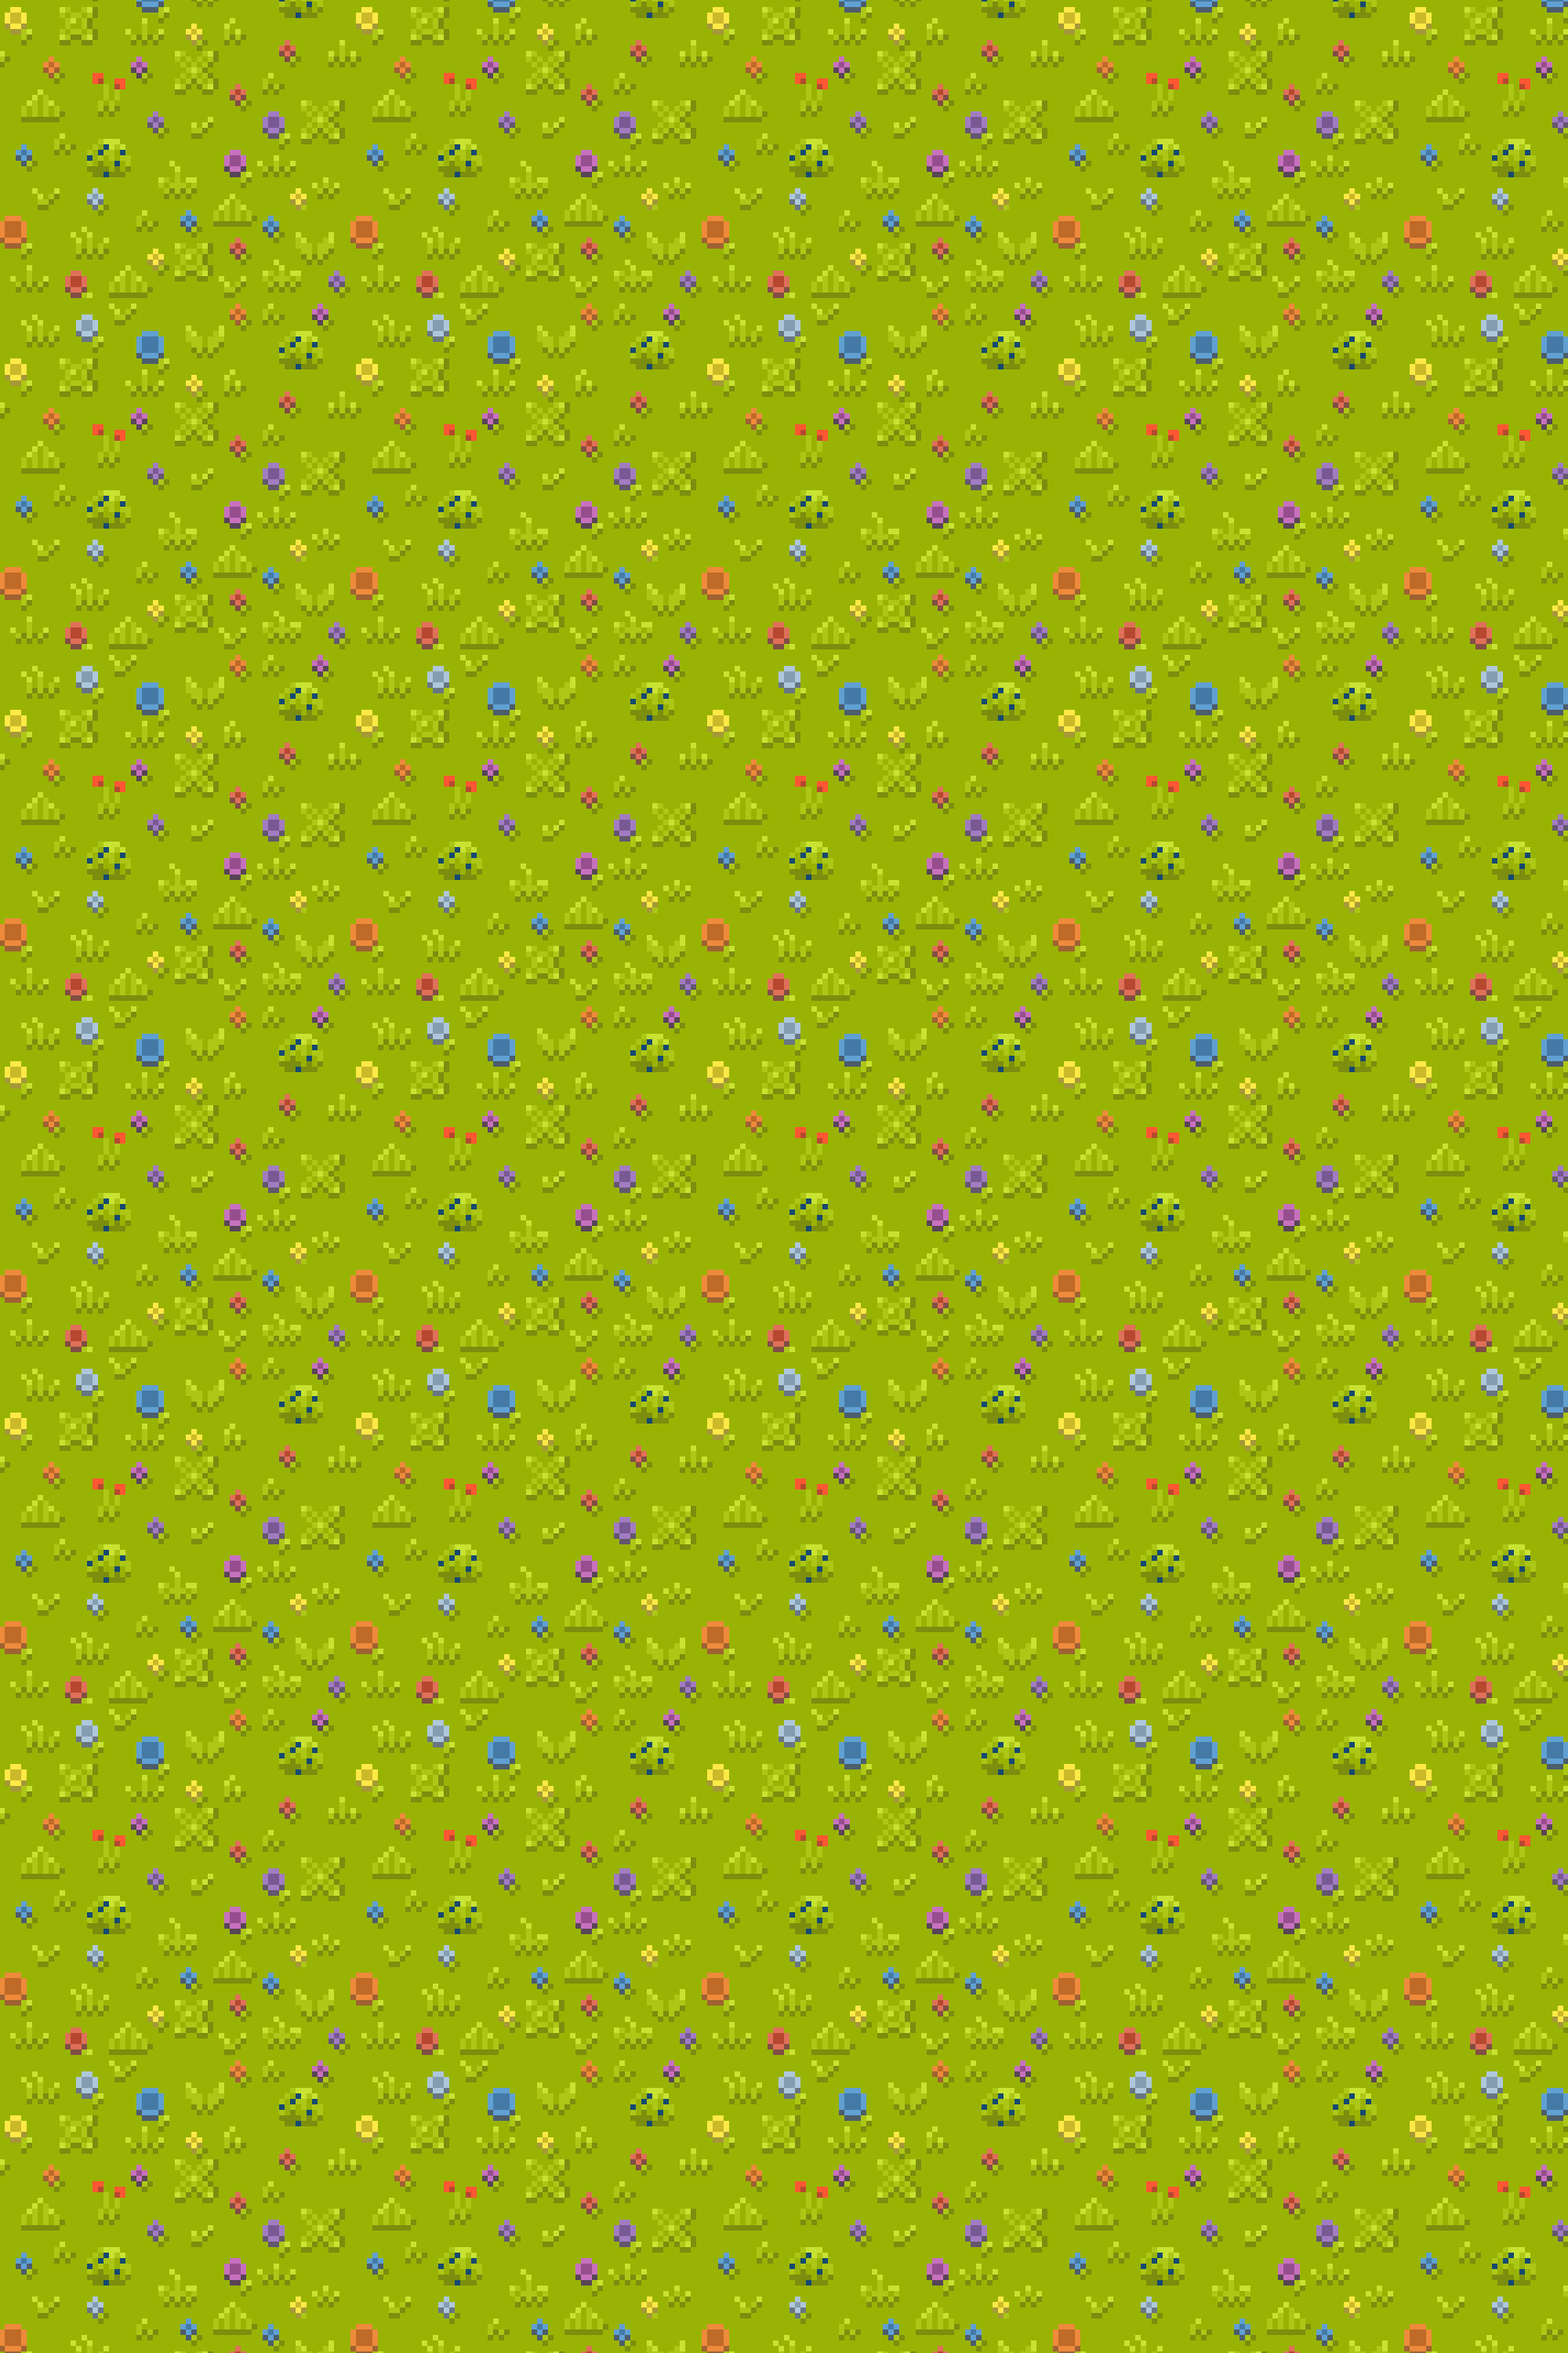
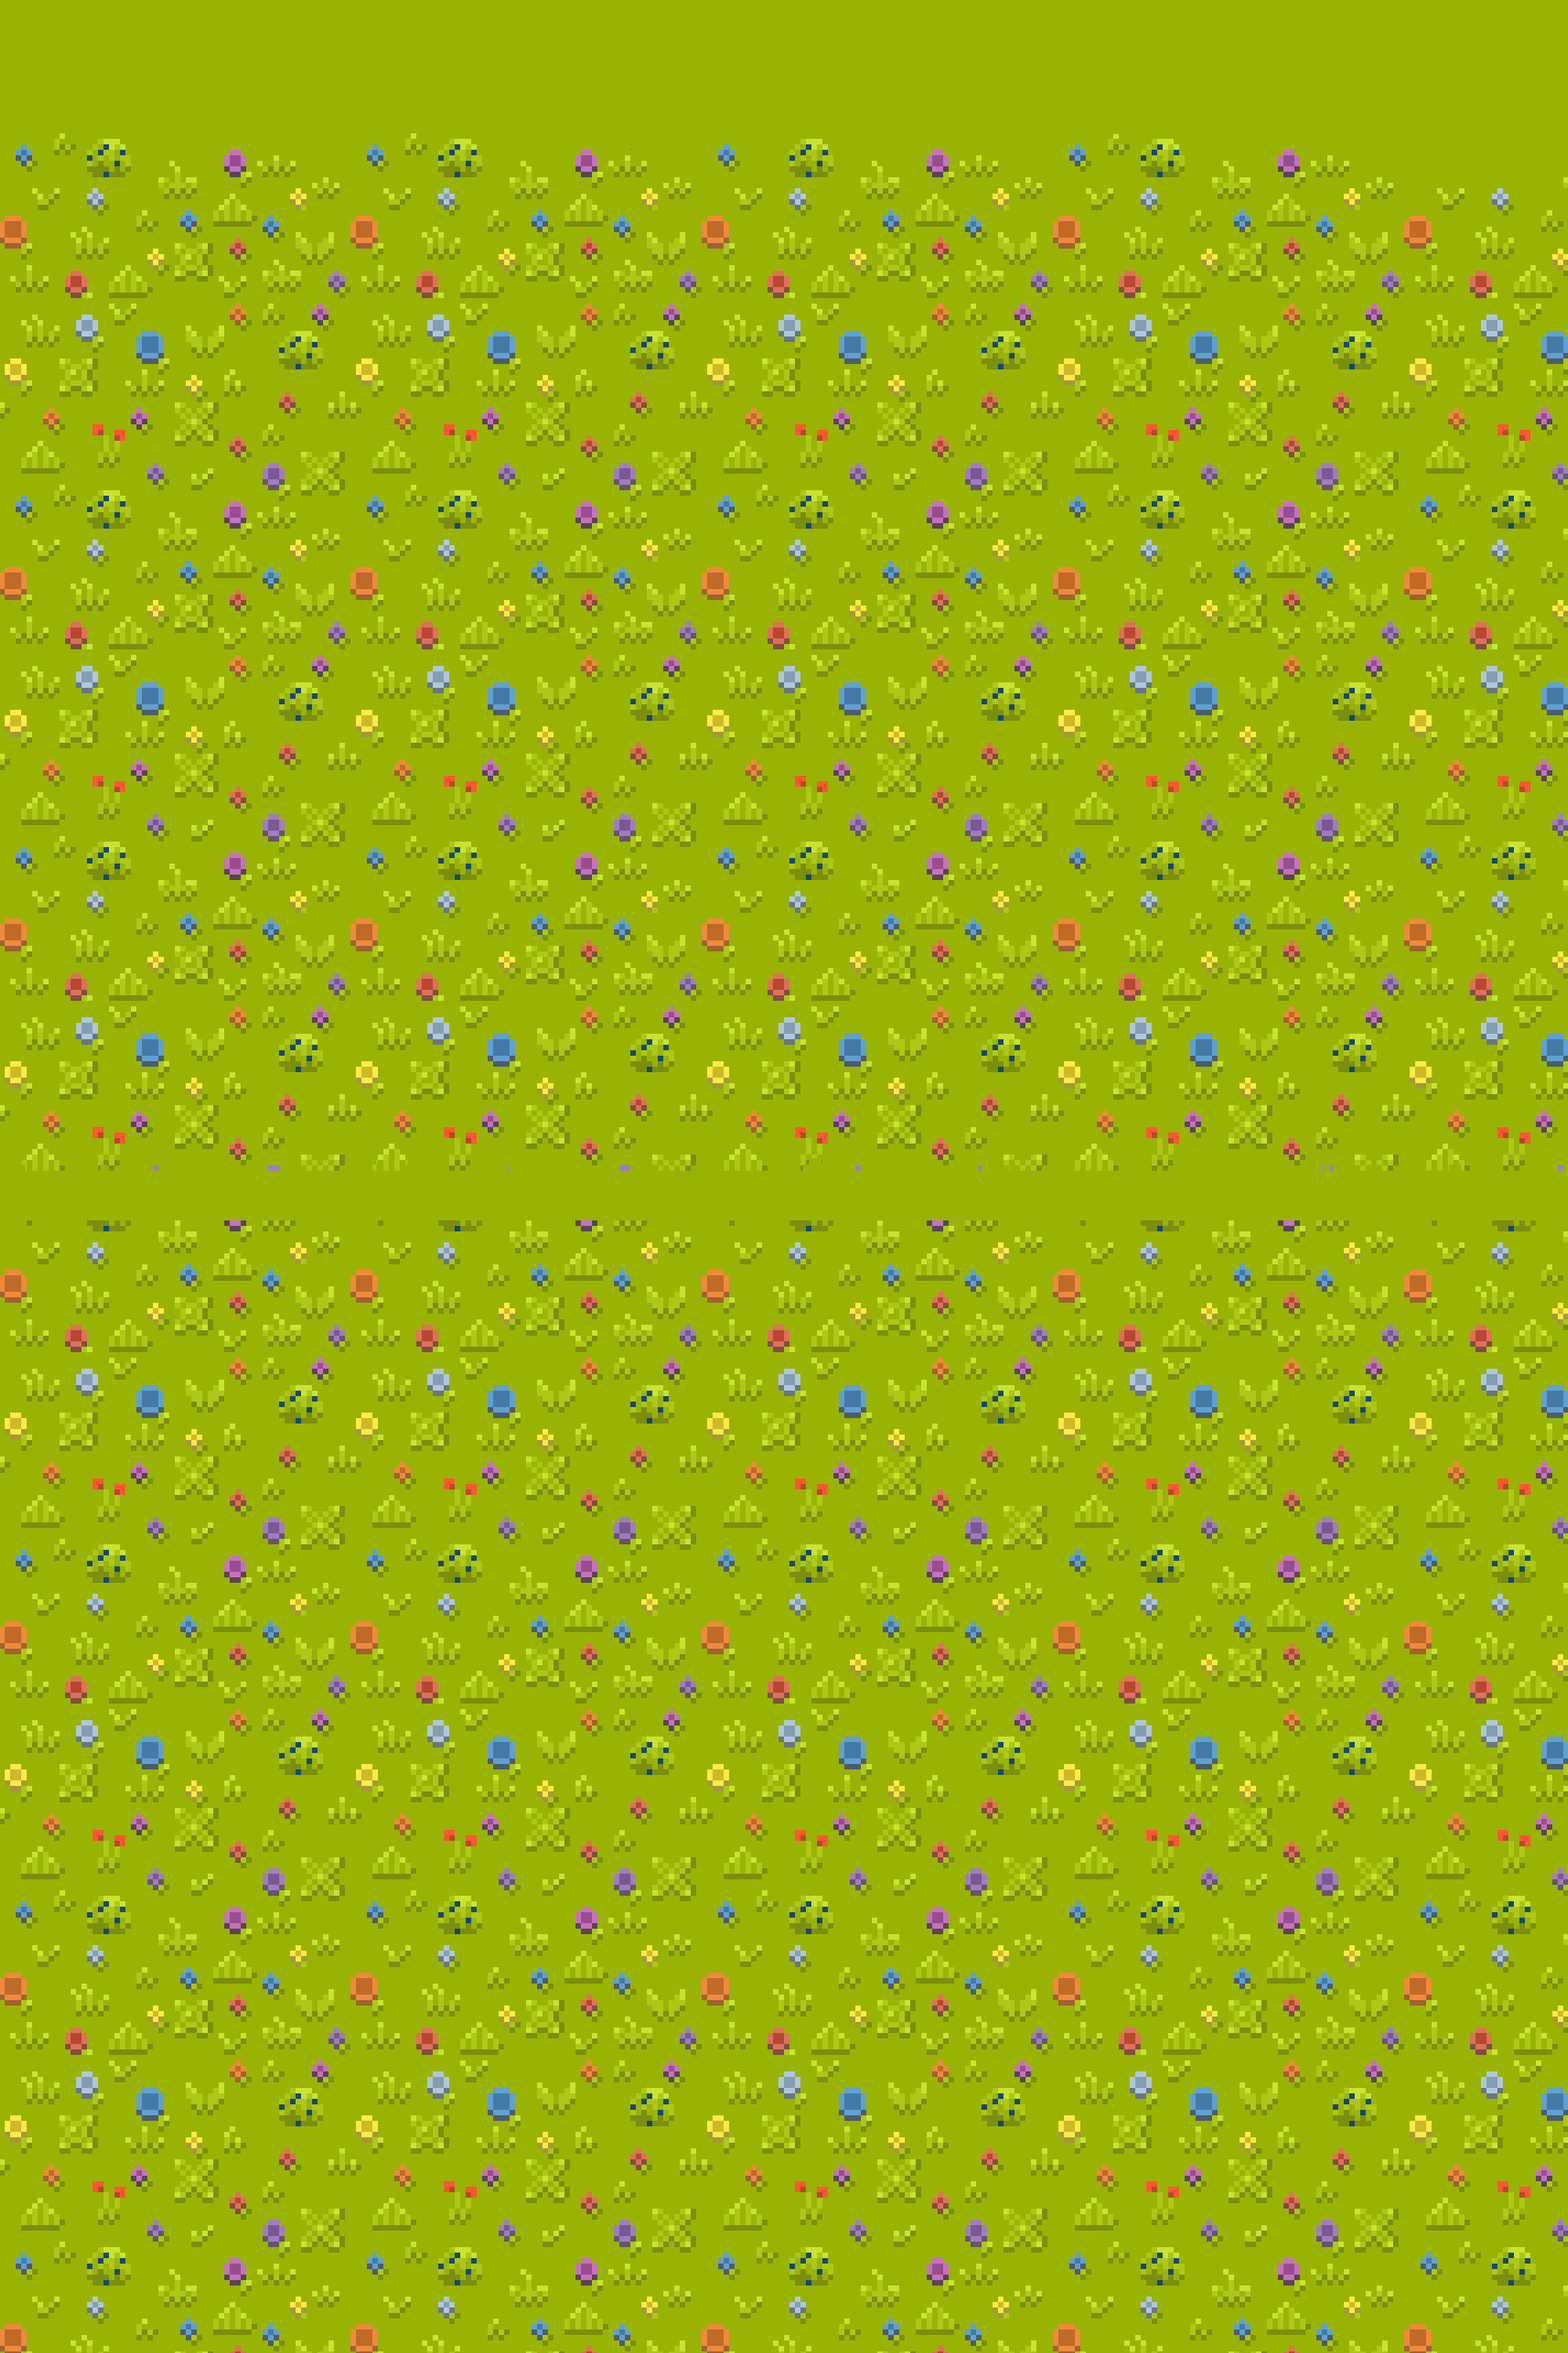
change buttons and grass

diff --git a/webpage/src/pages/Spielbeschreibung.vue b/webpage/src/pages/Spielbeschreibung.vue
@@ -1,25 +1,25 @@
 <template>
   <div class="page-wrapper-spielbeschreibung spielbeschreibung-page">
     <!-- Nav Bar -->
-    <nav class="navbar">
-      <img src="@/assets/xx_Images/xx_Images/wordmark/wordmark hell.png" alt="Logo" class="logo" />
-      <button class="nav-button-spielbeschreibung">
-        <img src="@/assets/xx_Images/xx_Images/Buttons/button jzt spielen.png" alt="Jetzt spielen" />
-      </button>
-      <img src="@/assets/xx_Images/xx_Images/menue.png" alt="Menü" class="menu-icon" />
-    </nav>
+      <nav class="navbar">
+        <img src="@/assets/xx_Images/xx_Images/wordmark/wordmark_hell_scaled.png" alt="Logo" class="logo" />
+        <button class="nav-button-spielbeschreibung">
+          <img src="@/assets/xx_Images/xx_Images/Buttons/button jzt spielen.png" alt="Jetzt spielen" />
+        </button>
+        <img src="@/assets/xx_Images/xx_Images/menue.png" alt="Menü" class="menu-icon" />
+      </nav>
 
     <!-- Content -->
     <div class="container-spielbeschreibung">
 
       <div class="welcome-container">
-        <img src="@/assets/xx_Images/xx_Images/sun.png" alt="Sonne" class="sun-image-s" />
-        <img src="@/assets/xx_Images/xx_Images/cloud.png" alt="Wolke" class="left-cloud-s" />
-        <div class="welcome-text">
-          <h1>Willkommen</h1>
-          <h1>zu</h1>
-        </div>
-        <img src="@/assets/xx_Images/xx_Images/Cloud2.png" alt="Wolke" class="right-cloud-s" />
+          <img src="@/assets/xx_Images/xx_Images/sun.png" alt="Sonne" class="sun-image-s" />
+          <img src="@/assets/xx_Images/xx_Images/cloud.png" alt="Wolke" class="left-cloud-s" />
+            <div class="welcome-text">
+              <h1>Willkommen</h1>
+              <h1>zu</h1>
+            </div>
+          <img src="@/assets/xx_Images/xx_Images/Cloud2.png" alt="Wolke" class="right-cloud-s" />
       </div>
 
       <div class="linguexplorer-logo">
@@ -31,72 +31,74 @@
         <!-- Character Image - positioned near the "Jetzt spielen" button -->
         <img src="@/assets/xx_Images/xx_Images/Charactee New.png" alt="Character" class="character-image" />
 
-        <button class="play-button">
-          <img src="@/assets/xx_Images/xx_Images/Buttons/button play now.png" alt="Jetzt spielen" class="play-button-image" />
-        </button>
+          <button class="play-button">
+            <img src="@/assets/xx_Images/xx_Images/Buttons/button play now.png" alt="Jetzt spielen" class="play-button-image" />
+          </button>
       </div>
       
 
       <!-- Gras Bild unter dem Button -->
-      <div class="grass-image-container">
+      <!--<div class="grass-image-container">
         <img src="@/assets/xx_Images/xx_Images/gras small patch_scaled.png" alt="Gras" class="grass-image" />
+      </div>-->
+
+      <div class="grass-background">
+
+        <!-- Boxes for content -->
+        <div class="content-box-spielbeschreibung">
+          <div class="image-between">
+            <h2>Was ist</h2>
+            <img src="@/assets/xx_Images/xx_Images/wordmark/wordmark_hell_scaled.png" alt="Logo" class="between-image" />
+            <h2>?</h2>
+          </div>
+          <p>
+            Linguexplorer ist eine innovative Lernanwendung, die Schülerinnen und Schüler auf eine unterhaltsame Reise
+            durch die englische Sprache mitnimmt. Diese Reise ist speziell darauf ausgelegt, den Herausforderungen der
+            Fremdsprachenerlernung entgegenzutreten, die viele Jugendliche in ihrer Schullaufbahn bis zur Matura erleben.
+          </p>
+        </div>
+
+        <div class="content-box-spielbeschreibung">
+          <h2>Ziele des Spiels:</h2>
+          <p>
+            Das primäre Ziel von Linguexplorer ist es, die Motivation der Spieler zu steigern, indem sie auf spielerische
+            Weise die englische Sprache erlernen. Das Spiel verbindet Lernen und Spaß, um den Schülern zu helfen, ihre
+            Englischkenntnisse langfristig zu verbessern. Durch die interaktiven und herausfordernden Aufgaben soll nicht
+            nur das Lernen gefördert, sondern auch ein tieferes Verständnis und ein besseres Gefühl für die Sprache
+            vermittelt werden.
+          </p>
+          <p>
+            Linguexplorer soll den Nutzern die Möglichkeit geben, durch regelmäßige Interaktion mit der Sprache ihr
+            Selbstvertrauen und ihre Fähigkeiten im Umgang mit Englisch zu stärken, und dies auf eine Weise, die im
+            traditionellen Unterricht oft fehlt.
+          </p>
+        </div>
+
+        <div class="content-box-spielbeschreibung">
+          <h2>Gameplay:</h2>
+          <p>
+            Linguexplorer ist ein Singleplayer-Lernspiel, das auf der Kombination von Spielspaß und Bildung basiert, ein
+            sogenanntes Serious Game. Das Hauptziel des Spiels ist es, Englischkenntnisse durch das Erforschen einer
+            offenen Spielwelt zu verbessern. Die Spieler können sich auf einer Map bewegen und verschiedene Orte
+            besuchen, die jeweils unterschiedliche Themenbereiche und sprachliche Herausforderungen repräsentieren.
+          </p>
+          <p>
+            An diesen Orten stehen dem Spieler eine Vielzahl von Minispielen zur Verfügung, die den Fokus auf spezifische
+            sprachliche Fertigkeiten legen.
+          </p> 
+          <p>
+            Zusätzlich bietet das Spiel ein Phrasenheft als hilfreiches Werkzeug. Hier
+            werden alle während des Spiels erlernten Vokabeln und Phrasen gesammelt. Dieses Phrasenheft steht den
+            Spielern jederzeit zur Verfügung und ermöglicht es ihnen, Inhalte nachzuschlagen und ihren Lernfortschritt
+            zu verfolgen.
+          </p>
+        </div>
+
       </div>
-
-    <div class="grass-background">
-
-    <!-- Boxes for content -->
-    <div class="content-box-spielbeschreibung">
-      <div class="image-between">
-        <h2>Was ist</h2>
-        <img src="@/assets/xx_Images/xx_Images/wordmark/wordmark hell.png" alt="Logo" class="between-image" />
-        <h2>?</h2>
-      </div>
-      <p>
-        Linguexplorer ist eine innovative Lernanwendung, die Schülerinnen und Schüler auf eine unterhaltsame Reise
-        durch die englische Sprache mitnimmt. Diese Reise ist speziell darauf ausgelegt, den Herausforderungen der
-        Fremdsprachenerlernung entgegenzutreten, die viele Jugendliche in ihrer Schullaufbahn bis zur Matura erleben.
-      </p>
-    </div>
-
-    <div class="content-box-spielbeschreibung">
-      <h2>Ziele des Spiels:</h2>
-      <p>
-        Das primäre Ziel von Linguexplorer ist es, die Motivation der Spieler zu steigern, indem sie auf spielerische
-        Weise die englische Sprache erlernen. Das Spiel verbindet Lernen und Spaß, um den Schülern zu helfen, ihre
-        Englischkenntnisse langfristig zu verbessern. Durch die interaktiven und herausfordernden Aufgaben soll nicht
-        nur das Lernen gefördert, sondern auch ein tieferes Verständnis und ein besseres Gefühl für die Sprache
-        vermittelt werden.
-      </p>
-      <p>
-        Linguexplorer soll den Nutzern die Möglichkeit geben, durch regelmäßige Interaktion mit der Sprache ihr
-        Selbstvertrauen und ihre Fähigkeiten im Umgang mit Englisch zu stärken, und dies auf eine Weise, die im
-        traditionellen Unterricht oft fehlt.
-      </p>
-    </div>
-
-    <div class="content-box-spielbeschreibung">
-      <h2>Gameplay:</h2>
-      <p>
-        Linguexplorer ist ein Singleplayer-Lernspiel, das auf der Kombination von Spielspaß und Bildung basiert, ein
-        sogenanntes Serious Game. Das Hauptziel des Spiels ist es, Englischkenntnisse durch das Erforschen einer
-        offenen Spielwelt zu verbessern. Die Spieler können sich auf einer Map bewegen und verschiedene Orte
-        besuchen, die jeweils unterschiedliche Themenbereiche und sprachliche Herausforderungen repräsentieren.
-      </p>
-      <p>
-        An diesen Orten stehen dem Spieler eine Vielzahl von Minispielen zur Verfügung, die den Fokus auf spezifische
-        sprachliche Fertigkeiten legen.
-      </p> 
-      <p>
-        Zusätzlich bietet das Spiel ein Phrasenheft als hilfreiches Werkzeug. Hier
-        werden alle während des Spiels erlernten Vokabeln und Phrasen gesammelt. Dieses Phrasenheft steht den
-        Spielern jederzeit zur Verfügung und ermöglicht es ihnen, Inhalte nachzuschlagen und ihren Lernfortschritt
-        zu verfolgen.
-      </p>
-    </div>
-  </div>
 
     
     </div>
+    
   </div>
 </template>
 

diff --git a/webpage/src/styles/Spielbeschreibung.css b/webpage/src/styles/Spielbeschreibung.css
@@ -71,7 +71,7 @@
     width: 100%; 
     padding: 0px 0px 0px 0px; /*left, right, up, and down*/
     box-sizing: border-box; 
-    margin-top: -20px;
+    /*margin-top: -20px;*/
   }
   
   /*überschriften + clouds container*/
@@ -198,32 +198,31 @@
   
   /* grass hintergrund*/
   .grass-background {
-    background-image: url('@/assets/xx_Images/xx_Images/gras full_scaled.png'); 
+    background-image: url('@/assets/xx_Images/xx_Images/gras_combined_scaled.png'); 
     background-size: cover; 
     background-position: center;
     padding: 80px 0 20px; /*1 = abstand oben von innen*/
     position: relative; 
-    min-height: 100vh; 
     z-index: 0;
-    margin-top: -4px; /*abstand nach oben zu grass zeile*/
+    /*margin-top: -4px;*/ /*abstand nach oben zu grass zeile*/
   }
   
     /* grass Zeile*/
-  .grass-image-container {
+  /*.grass-image-container {
     text-align: center; 
     padding: 0; 
     position: relative; 
-    margin-top: -16px; /*grass Zeile weiter oben*/
-  }
+    margin-top: -16px; grass Zeile weiter oben
+  }*/
   
-  .grass-image {
+  /*.grass-image {
     width: 100%; 
     z-index: 1; 
-  }
+  }*/
   
   /* 3 Container Boxen */
   .content-box-spielbeschreibung {
-    background-color: #f6f5f1; 
+    background-color: #f1f6f4; 
     padding: 40px; /*innenabstand text zu Rand*/
     margin: 30px 20% 30px;  /*Außenabstand der box*/
     box-shadow: 0 2px 10px rgba(0, 0, 0, 0.1); 

diff --git a/webpage/src/pages/Impressum.vue b/webpage/src/pages/Impressum.vue
@@ -2,7 +2,7 @@
   <div class="page-wrapper">
       <!-- Nav Bar -->
       <nav class="navbar">
-        <img src="@/assets/xx_Images/xx_Images/wordmark/wordmark hell.png" alt="Logo" class="logo" />
+        <img src="@/assets/xx_Images/xx_Images/wordmark/wordmark_hell_scaled.png" alt="Logo" class="logo" />
         <button class="nav-button-impressum">
           <img src="@/assets/xx_Images/xx_Images/Buttons/button jzt spielen.png" alt="Jetzt spielen" />
         </button>

diff --git a/webpage/src/pages/Datenschutz.vue b/webpage/src/pages/Datenschutz.vue
@@ -3,7 +3,7 @@
       
       <!-- Nav Bar -->
       <nav class="navbar-datenschutz">
-        <img src="@/assets/xx_Images/xx_Images/wordmark/wordmark hell.png" alt="Logo" class="logo" />
+        <img src="@/assets/xx_Images/xx_Images/wordmark/wordmark_hell_scaled.png" alt="Logo" class="logo" />
         <button class="nav-button-datenschutz">
           <img src="@/assets/xx_Images/xx_Images/Buttons/button jzt spielen.png" alt="Jetzt spielen" />
         </button>
